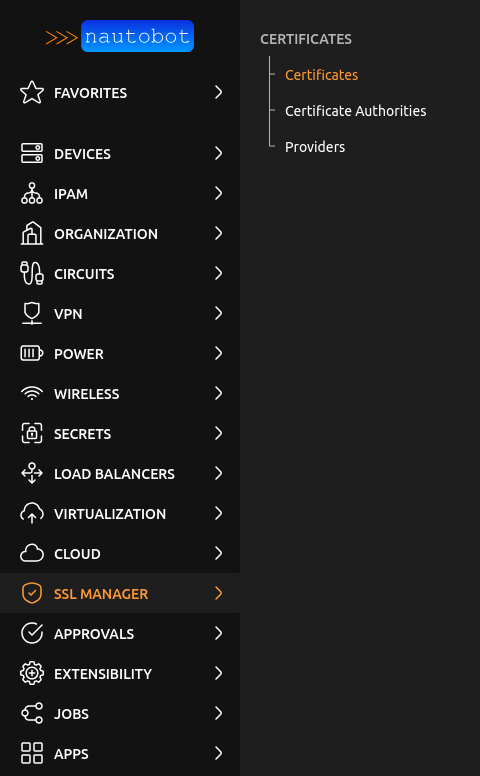
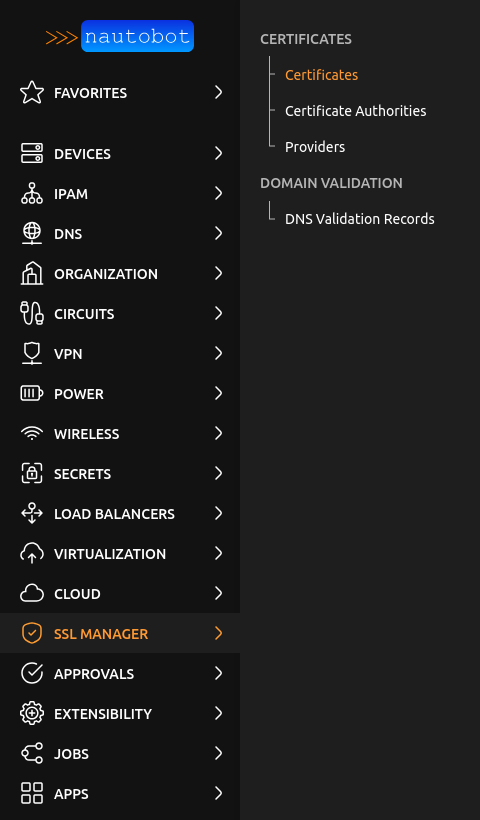
docs: document domain validation and the Nautobot DNS Models integration
- Document the DCV method of certificates and the Domain Validation
  Record model, aligned with Nautobot DNS Models.
- Document the optional Nautobot DNS Models installation and the
  computed comparison states.
- Add an architecture decision record and the REST API endpoint.
- Add screenshots of the download menu and of a Domain Validation
  Record to the overview, and refresh the menu and certificate ones.
- Add the release note fragment.

Refs #5

diff --git a/docs/models/domainvalidationrecord.md b/docs/models/domainvalidationrecord.md
@@ -1,0 +1,53 @@
+# Domain Validation Record
+
+A Domain Validation Record is a DNS record used for the Domain Control Validation (DCV) of certificates: for example the `_acme-challenge` CNAME delegating ACME `dns-01` challenges to another zone, or a TXT record holding the token of a Certificate Authority. A record can be linked to several certificates (a delegation is reused at each renewal), and a certificate to several records.
+
+The DCV method itself is stored on the [Certificate](certificate.md#domain-validation) (`dcv_method`).
+
+## Fields
+
+The fields follow the conventions of [Nautobot DNS Models](https://github.com/nautobot/nautobot-app-dns-models) (`TXTRecord`, `CNAMERecord`), so that a record can be copied from one app to the other field by field:
+
+| Field | Nautobot DNS Models | Description |
+| ----- | ------------------- | ----------- |
+| `record_type` | `TXTRecord` or `CNAMERecord` | `TXT` or `CNAME` (required). |
+| `name` | `name` | Name relative to the zone (e.g. `_acme-challenge`), empty for the zone apex. A name ending with the zone and a dot (e.g. `_acme-challenge.example.com.`) is made relative. Up to 200 characters. |
+| `zone_name` | `zone.name` | FQDN of the DNS zone (e.g. `example.com`, required). Stored as a name: the app does not depend on Nautobot DNS Models. |
+| `text` | `text` | TXT records only, up to 256 characters. Optional: leave it empty when the value changes at each issuance (e.g. ACME `dns-01`). |
+| `alias` | `alias` | CNAME records only (required for them): FQDN of the alias. |
+| `ttl` | `ttl` (`_ttl`) | Optional; empty means the TTL of the zone. |
+| `description`, `comment` | `description`, `comment` | Free text. |
+| `certificates` | — | Certificates validated with this record. |
+| `tenant` | — | Optional tenant. |
+
+Computed (read-only): `fqdn` (`name` + `.` + `zone_name`).
+
+As in Nautobot DNS Models, the letter case is kept and DNS names are compared ignoring the case; a trailing dot is removed. The same record (type, name, zone, text and alias) cannot be created twice.
+
+Tags, notes, contacts/teams, custom fields, relationships and change logging are supported through the standard Nautobot features.
+
+## Views
+
+The records are listed in the menu **SSL Manager > Domain Validation > DNS Validation Records**, with their certificates. The detail view of a certificate shows a *Domain Validation* panel (DCV method and validation level) and the table of its Domain Validation Records.
+
+Filters: `record_type`, `fqdn` (exact, ignoring the case), `zone_name`, `certificates`, `has_certificates`, `certificate_expires_within_days` (records linked to a certificate not yet expired and expiring within N days) and, when Nautobot DNS Models is installed, `dns_models_match`.
+
+## Nautobot DNS Models (optional)
+
+The app works without Nautobot DNS Models. When it is installed (see [Install](../admin/install.md#optional-nautobot-dns-models)), each Domain Validation Record is compared with the TXT / CNAME records of DNS Models **each time it is displayed**; nothing is stored, so a record deleted or modified in DNS Models is reported at once, without synchronization job:
+
+| State | Meaning |
+| ----- | ------- |
+| Present | A DNS Models record with the same type, name, zone and value (text or alias) exists. A TXT record without text is present as soon as a record with the same name exists. |
+| Different | DNS Models records with the same type, name and zone exist, but with another value (e.g. a modified CNAME delegation). |
+| Absent | No DNS Models record with the same type, name and zone. |
+
+- The name is compared both relative to the zone and as a fully qualified name, as both forms can be found in DNS Models. A zone name can exist in several DNS views: all the matching records are listed.
+- Only the DNS Models records visible to the user (object permissions) are considered.
+- The state is shown in the list (*Nautobot DNS Models* column), in the detail view (with links to the matching records) and in the REST API (`dns_models_match`, `null` when DNS Models is not installed). The `dns_models_match` filter lists, for example, the absent records linked to certificates expiring within 30 days: `?dns_models_match=absent&certificate_expires_within_days=30`.
+- For an absent record, *Create in Nautobot DNS Models* opens the creation form of DNS Models pre-filled with the values of the record (the zone is selected when exactly one zone has this name). The record is created by DNS Models itself, with its own validation and permissions (`add_txtrecord` / `add_cnamerecord`).
+
+!!! note
+    Nautobot DNS Models is an inventory too: a record present in DNS Models does not prove that the DNS zone actually publishes it. The app does not query DNS servers (see [External Interactions](../user/external_interactions.md)).
+
+CAA records (Certificate Authorities authorized for a domain) are not modelled in Nautobot DNS Models 2.3.0 / 3.0.0 and are out of scope.

diff --git a/docs/user/app_overview.md b/docs/user/app_overview.md
@@ -7,11 +7,12 @@ This document provides an overview of the App including critical information and
 
 ## Description
 
-Nautobot SSL Manager adds an inventory of SSL/TLS certificates to Nautobot. It provides three data models:
+Nautobot SSL Manager adds an inventory of SSL/TLS certificates to Nautobot. It provides four data models:
 
 - [Certificate Provider](../models/certificateprovider.md): the vendor or service through which certificates are obtained (a commercial vendor, Let's Encrypt, an internal PKI team...).
 - [Certificate Authority](../models/certificateauthority.md): the CA issuing certificates, organized as a tree of Root and Intermediate CAs.
-- [Certificate](../models/certificate.md): an SSL/TLS certificate (public part only), with its identity (CN, SANs, serial number, fingerprint), its validity, its technical characteristics, its issuing CA and its renewal history.
+- [Certificate](../models/certificate.md): an SSL/TLS certificate (public part only), with its identity (CN, SANs, serial number, fingerprint), its validity, its technical characteristics, its issuing CA, its renewal history and its Domain Control Validation (DCV) method.
+- [Domain Validation Record](../models/domainvalidationrecord.md): a DNS record (TXT or CNAME) used to validate the domains of certificates, such as an `_acme-challenge` delegation, optionally compared with [Nautobot DNS Models](https://github.com/nautobot/nautobot-app-dns-models).
 
 The app adds an **SSL Manager** tab to the navigation menu:
 
@@ -20,6 +21,14 @@ The app adds an **SSL Manager** tab to the navigation menu:
 Detail view of a certificate, with its validity, its technical details and its certification chain:
 
 ![Certificate detail view](../images/certificate.png)
+
+The public certificate can be downloaded alone or with its chain, in PEM, DER or PKCS#7 format:
+
+![Download menu of a certificate](../images/download_pem.png)
+
+Detail view of a Domain Validation Record, with its certificates and its comparison with Nautobot DNS Models (here, a CNAME delegation whose alias differs in DNS Models):
+
+![Domain Validation Record detail view](../images/dcv.png)
 
 The app follows a "nothing is guessed" principle: data is either entered by the user or read from the certificate itself, never inferred (for example, `auto_renew` stays unknown until set, and the import from PEM never selects the certificate to replace on its own).
 
@@ -38,7 +47,7 @@ The app follows a "nothing is guessed" principle: data is either entered by the 
 
 ## Nautobot Features Used
 
-- **Navigation**: a dedicated **SSL Manager** menu tab with *Certificates* (including an *Import from PEM* button), *Certificate Authorities* and *Providers*.
+- **Navigation**: a dedicated **SSL Manager** menu tab with *Certificates* (including an *Import from PEM* button), *Certificate Authorities*, *Providers* and, in the *Domain Validation* group, *DNS Validation Records*.
 - **Data models** with the standard Nautobot features: list, detail, create/edit, bulk edit, bulk delete, CSV import/export, change logging, tags, notes, contacts/teams, custom fields, relationships, global search.
 - **Tenancy**: each model can be assigned to a Tenant.
 - **Tree model**: Certificate Authorities use Nautobot's tree support (`parent`), with a tree list view.

diff --git a/docs/models/certificate.md b/docs/models/certificate.md
@@ -19,6 +19,7 @@ A Certificate describes an SSL/TLS certificate. Only the **public** certificate 
 - `key_algorithm` (choice, optional): `RSA`, `ECDSA` or `Ed25519`.
 - `key_size` (integer, optional): Key size in bits.
 - `validation_level` (choice, optional): `DV`, `OV` or `EV`.
+- `dcv_method` (choice, optional): Domain Control Validation method used for the issuance (see [Domain validation](#domain-validation)).
 - `extended_key_usage` (list, optional): Extended Key Usage purposes (RFC 5280): TLS Server Authentication, TLS Client Authentication, Code Signing, Email Protection (S/MIME), Time Stamping, OCSP Signing.
 - `pem` (text, optional): Public certificate in PEM format.
 - `tenant` (Tenant, optional), `description` (string, optional), `comments` (text, optional).
@@ -28,6 +29,19 @@ Computed (read-only): `days_remaining`, `is_expired`, `is_wildcard`.
 A certificate can be the certificate of a Certificate Authority (see [CA certificate](certificateauthority.md#ca-certificate)); its detail view then shows it under its CA in the *Certification chain* panel, marked as *this certificate*. The `is_ca_certificate` filter lists (or excludes) these certificates.
 
 Tags, notes, contacts/teams, custom fields, relationships and change logging are supported through the standard Nautobot features.
+
+## Domain validation
+
+Before issuing a certificate, the Certificate Authority checks that the requester controls the domains (Domain Control Validation, DCV). `dcv_method` records how it was done:
+
+- `DNS (TXT record)`, `DNS (CNAME record)`: record published in the DNS zone;
+- `HTTP (file on the web server)`;
+- `Email`;
+- `ACME dns-01`, `ACME http-01`, `ACME tls-alpn-01`: challenges of the ACME protocol (e.g. Let's Encrypt).
+
+DCV applies to every validation level: `OV` and `EV` certificates add the validation of the organization on top of it. The DNS records involved (for example the `_acme-challenge` CNAME delegation) are tracked as [Domain Validation Records](domainvalidationrecord.md) linked to the certificate, to check they are still in place before a renewal. The detail view shows a *Domain Validation* panel and the table of these records.
+
+Filters: `dcv_method`, `has_domain_validation_records`, `domain_validation_records`.
 
 ## Import from PEM
 

diff --git a/docs/user/external_interactions.md b/docs/user/external_interactions.md
@@ -6,7 +6,11 @@ This document describes external dependencies and prerequisites for this App to 
 
 ### From the App to Other Systems
 
-The app does not connect to any external system: it does not contact Certificate Authorities, providers or the endpoints using the certificates. PEM certificates are parsed locally with the [`cryptography`](https://cryptography.io/) library.
+The app does not connect to any external system: it does not contact Certificate Authorities, providers, DNS servers or the endpoints using the certificates. PEM certificates are parsed locally with the [`cryptography`](https://cryptography.io/) library.
+
+### Nautobot DNS Models (optional)
+
+When [Nautobot DNS Models](https://github.com/nautobot/nautobot-app-dns-models) is installed in the same Nautobot, the Domain Validation Records are compared with its TXT / CNAME records (read only, within Nautobot, with the permissions of the user). See [Domain Validation Record](../models/domainvalidationrecord.md#nautobot-dns-models-optional).
 
 ### From Other Systems to the App
 
@@ -19,11 +23,13 @@ External tools can read and write the inventory through the Nautobot REST API an
 | Certificate | `/api/plugins/nautobot-ssl-manager/certificates/` |
 | Certificate Authority | `/api/plugins/nautobot-ssl-manager/certificate-authorities/` |
 | Certificate Provider | `/api/plugins/nautobot-ssl-manager/certificate-providers/` |
+| Domain Validation Record | `/api/plugins/nautobot-ssl-manager/domain-validation-records/` |
 
 The filters described in the [data models](../models/certificate.md) pages are available as query parameters. Read-only computed fields are included in the responses:
 
 - Certificate: `days_remaining`, `is_expired`, `is_wildcard`;
-- Certificate Authority: `chain_role`.
+- Certificate Authority: `chain_role`;
+- Domain Validation Record: `fqdn`, `dns_models_match` (`present`, `different`, `absent`, or `null` when Nautobot DNS Models is not installed).
 
 Example: list the certificates expiring within 30 days.
 

diff --git a/docs/admin/install.md b/docs/admin/install.md
@@ -55,10 +55,19 @@ Then restart (if necessary) the Nautobot services which may include:
 sudo systemctl restart nautobot nautobot-worker nautobot-scheduler
 ```
 
+### Optional: Nautobot DNS Models
+
+The app can compare its [Domain Validation Records](../models/domainvalidationrecord.md#nautobot-dns-models-optional) with the records of [Nautobot DNS Models](https://github.com/nautobot/nautobot-app-dns-models). This integration is optional: it is enabled as soon as `nautobot_dns_models` is installed and in `PLUGINS`, and nothing changes in the app database when it is added or removed (no migration depends on it).
+
+```python
+# In your nautobot_config.py
+PLUGINS = ["nautobot_ssl_manager", "nautobot_dns_models"]
+```
+
 ## App Configuration
 
 The app does not have any setting: no `PLUGINS_CONFIG` entry is required.
 
 ## Permissions
 
-The app uses the standard Nautobot object permissions on its models (`nautobot_ssl_manager.<action>_certificate`, `..._certificateauthority`, `..._certificateprovider`, with `view`, `add`, `change` and `delete` actions). The *Import from PEM* view requires the `add_certificate` permission.
+The app uses the standard Nautobot object permissions on its models (`nautobot_ssl_manager.<action>_certificate`, `..._certificateauthority`, `..._certificateprovider`, `..._domainvalidationrecord`, with `view`, `add`, `change` and `delete` actions). The *Import from PEM* view requires the `add_certificate` permission.

diff --git a/docs/dev/arch_decision.md b/docs/dev/arch_decision.md
@@ -14,6 +14,12 @@ Fields that cannot be read reliably from the certificate are left empty rather t
 
 Expiration depends on the date and would require a periodic job to stay accurate as a status. It is computed from `not_after` (`is_expired`, `days_remaining`) and exposed as filters, while statuses describe the lifecycle decided by users.
 
+## Domain validation records follow Nautobot DNS Models without depending on it
+
+Domain Validation Records are stored by the app with the field names and conventions of Nautobot DNS Models (`name` relative to the zone, `text`, `alias`, `ttl`, `comment`), the zone being stored as a name instead of a `DNSZone`. The app keeps working without Nautobot DNS Models, no migration depends on it, and a record can be copied between both apps field by field.
+
+The link with DNS Models is computed at display time (present, different or absent), never stored: there is no stale link nor synchronization job, and each app stays the source of truth of its own data. Creating a missing record goes through the DNS Models creation form (pre-filled), so its own validation and permissions apply.
+
 ## Root / Intermediate role is deduced from the CA tree
 
 Certificate Authorities use Nautobot's tree model (`parent`). The `chain_role` is deduced from the presence of a parent instead of being stored, so it cannot become inconsistent with the tree.
